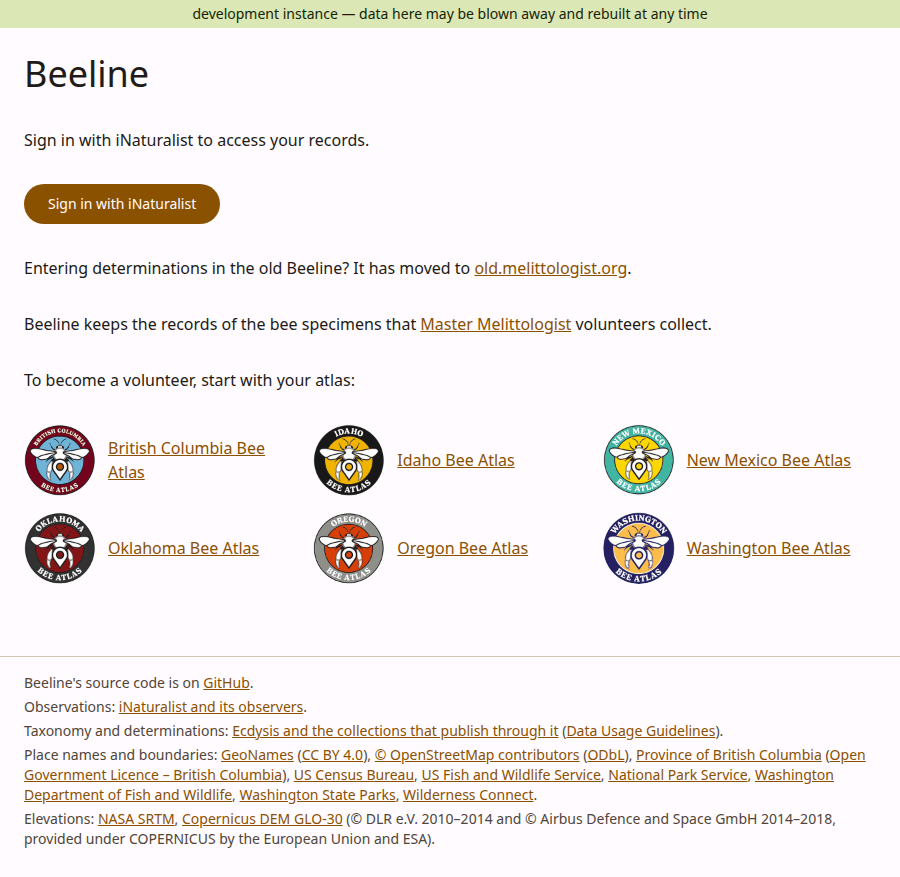
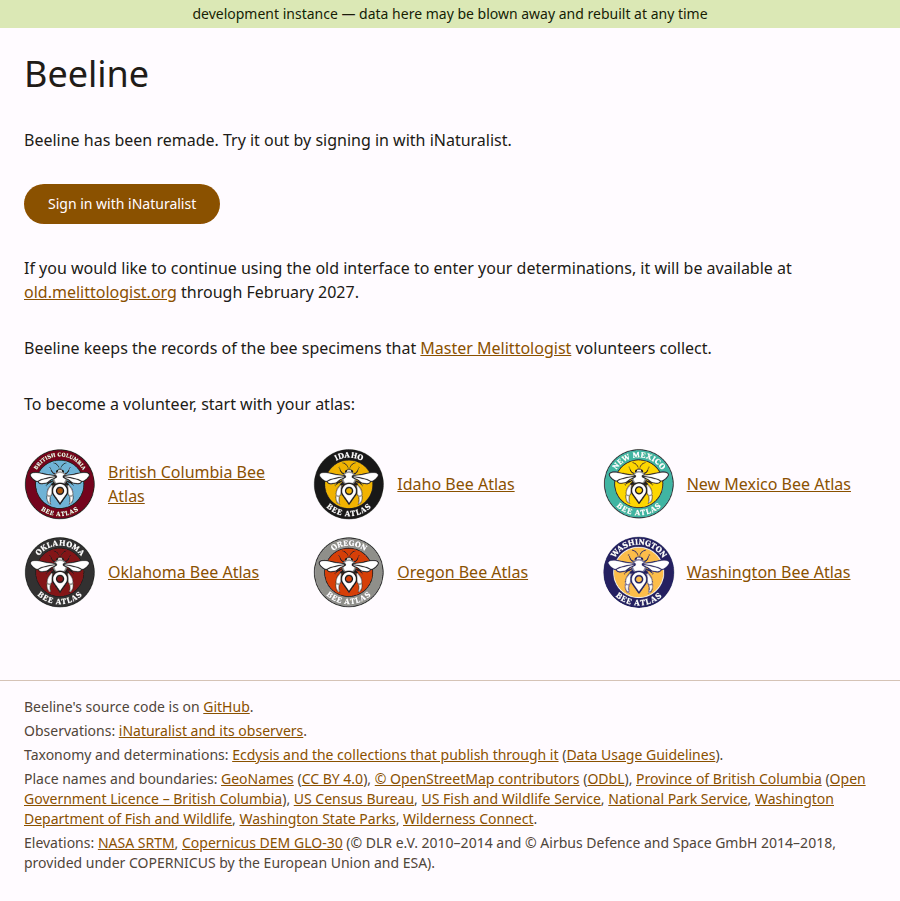
Say on the sign-in page that Beeline has been remade, and that the old one stays through February 2027 (beeline-83b8.12)
New Beeline was never announced to volunteers, so the signed-out page says
what it is and invites them to try it, and says the old interface stays
available for entering determinations, at old.melittologist.org, through
February 2027 (Peter, 2026-11-03). The link text is the address rather than
"here", so it can be read aloud and typed.

diff --git a/src/app/messages/en.ts b/src/app/messages/en.ts
@@ -338,7 +338,13 @@ export const en = {
   signIn: {
     title: "Sign in",
     heading: "Beeline",
-    nothingPublic: "Sign in with iNaturalist to access your records.",
+    /**
+     * Until the old Beeline closes (beeline-83b8.12): new Beeline was never
+     * announced to volunteers, so the page says what it is (Peter,
+     * 2026-11-03). Afterwards it reads "Sign in with iNaturalist to access
+     * your records." again.
+     */
+    nothingPublic: "Beeline has been remade. Try it out by signing in with iNaturalist.",
     button: "Sign in with iNaturalist",
     /**
      * For someone who lands here with no account (beeline-2c3.16): what this
@@ -357,9 +363,9 @@ export const en = {
      * February.
      */
     oldBeeline: {
-      lead: "Entering determinations in the old Beeline? It has moved to",
+      lead: "If you would like to continue using the old interface to enter your determinations, it will be available at",
       label: "old.melittologist.org",
-      tail: ".",
+      tail: " through February 2027.",
     },
     joinLead: "To become a volunteer, start with your atlas:",
     failed: "Sign-in failed (state mismatch or missing code). Try again from the sign-in page.",

diff --git a/src/app/old-beeline.ts b/src/app/old-beeline.ts
@@ -3,8 +3,8 @@ import type { Env, Hono } from "hono";
 /**
  * Where the old Beeline runs from cutover (beeline-83b8.12). New Beeline takes
  * melittologist.org on 3 November 2026, and the old system moves here and
- * keeps running, its volunteer determination screens open, at least through
- * February (Peter, 2026-11-03): volunteers were not warned about the new
+ * keeps running, its volunteer determination screens open, through February
+ * 2027 (Peter, 2026-11-03): volunteers were not warned about the new
  * interface, so they are not pushed onto it. What they enter there comes into
  * this store by another route (beeline-c43w).
  *
